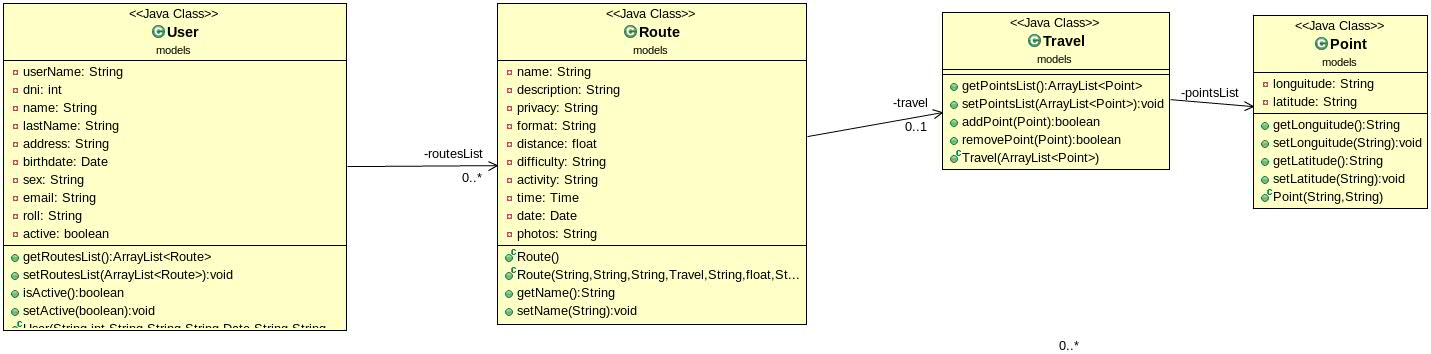
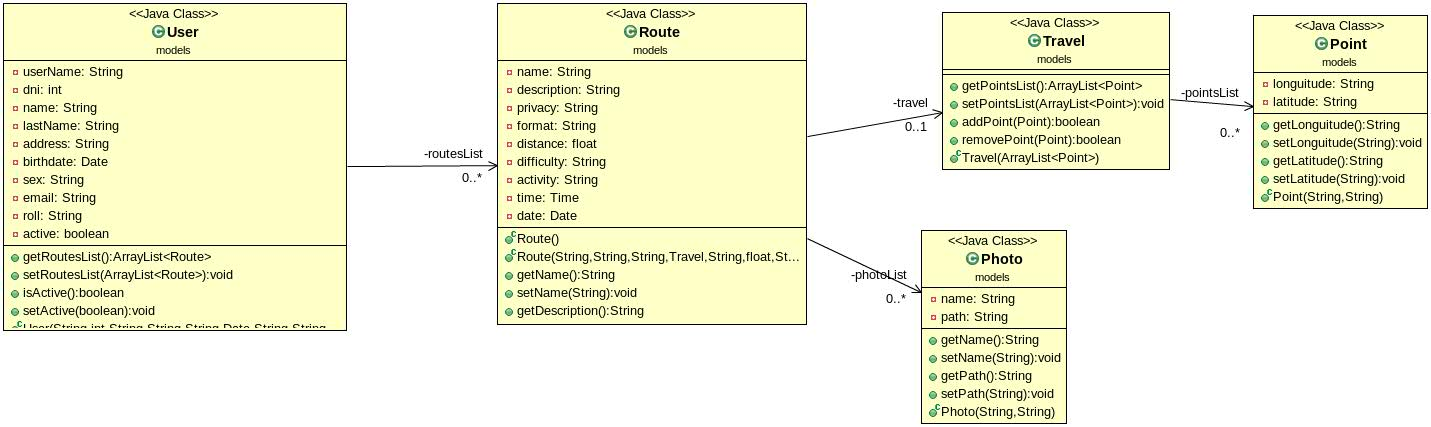
model photo

diff --git a/src/models/Route.java b/src/models/Route.java
@@ -1,6 +1,7 @@
 package models;
 
 import java.sql.Time;
+import java.util.ArrayList;
 import java.util.Date;
 
 public class Route {
@@ -15,7 +16,7 @@ public class Route {
 	private String activity;
 	private Time time;
 	private Date date;
-	private String photos; //Despu�s va a ser otra cosa
+	private ArrayList<Photo> photoList; //Despu�s va a ser otra cosa
 
 	public Route() {
 		// TODO Auto-generated constructor stub
@@ -23,7 +24,7 @@ public class Route {
 
 	public Route(String name, String description, String privacy,
 			Travel travel, String format, float distance, String difficulty,
-			String activity, Time time, Date date, String photos) {
+			String activity, Time time, Date date, ArrayList<Photo> photos) {
 		super();
 		this.name = name;
 		this.description = description;
@@ -35,7 +36,7 @@ public class Route {
 		this.activity = activity;
 		this.time = time;
 		this.date = date;
-		this.photos = photos;
+		this.photoList = photos;
 	}
 
 	public String getName() {
@@ -118,12 +119,12 @@ public class Route {
 		this.date = date;
 	}
 
-	public String getPhotos() {
-		return photos;
+	public ArrayList<Photo> getPhotos() {
+		return photoList;
 	}
 
-	public void setPhotos(String photos) {
-		this.photos = photos;
+	public void setPhotos(ArrayList<Photo> photos) {
+		this.photoList = photos;
 	}
 	
 	

diff --git a/src/models/User.java b/src/models/User.java
@@ -47,6 +47,22 @@ public class User {
 		this.active = active;
 		this.routesList = routesList;
 	}
+	
+	public User(String userName, int dni, String name, String lastName, String address, Date birthdate, String sex,
+			String email, String roll, boolean active) {
+		super();
+		this.userName = userName;
+		this.dni = dni;
+		this.name = name;
+		this.lastName = lastName;
+		this.address = address;
+		this.birthdate = birthdate;
+		this.sex = sex;
+		this.email = email;
+		this.roll = roll;
+		this.active = active;
+		this.routesList = new ArrayList<Route>();
+	}
 	public String getName() {
 		return name;
 	}

diff --git a/src/main/users.java b/src/main/users.java
@@ -36,7 +36,7 @@ public class users extends HttpServlet {
 	protected void doGet(HttpServletRequest request, HttpServletResponse response) throws ServletException, IOException {
 		// TODO Auto-generated method stub
 		ArrayList<User> users = new ArrayList<User>();
-		
+
 		users.add(new User("admin", 0,"","","",new Date("25/01/1991"), "","","admin", true ));
 		users.add(new User("user", 0,"","","",new Date("25/01/1991"), "","","admin", false ));
 		users.add(new User("user2", 0,"","","",new Date("25/01/1991"), "","","admin", false ));

diff --git a/src/models/Photo.java b/src/models/Photo.java
@@ -1,0 +1,25 @@
+package models;
+
+public class Photo {
+	private String name;
+	private String path;
+	public String getName() {
+		return name;
+	}
+	public void setName(String name) {
+		this.name = name;
+	}
+	public String getPath() {
+		return path;
+	}
+	public void setPath(String path) {
+		this.path = path;
+	}
+	public Photo(String name, String path) {
+		super();
+		this.name = name;
+		this.path = path;
+	}
+	
+
+}
